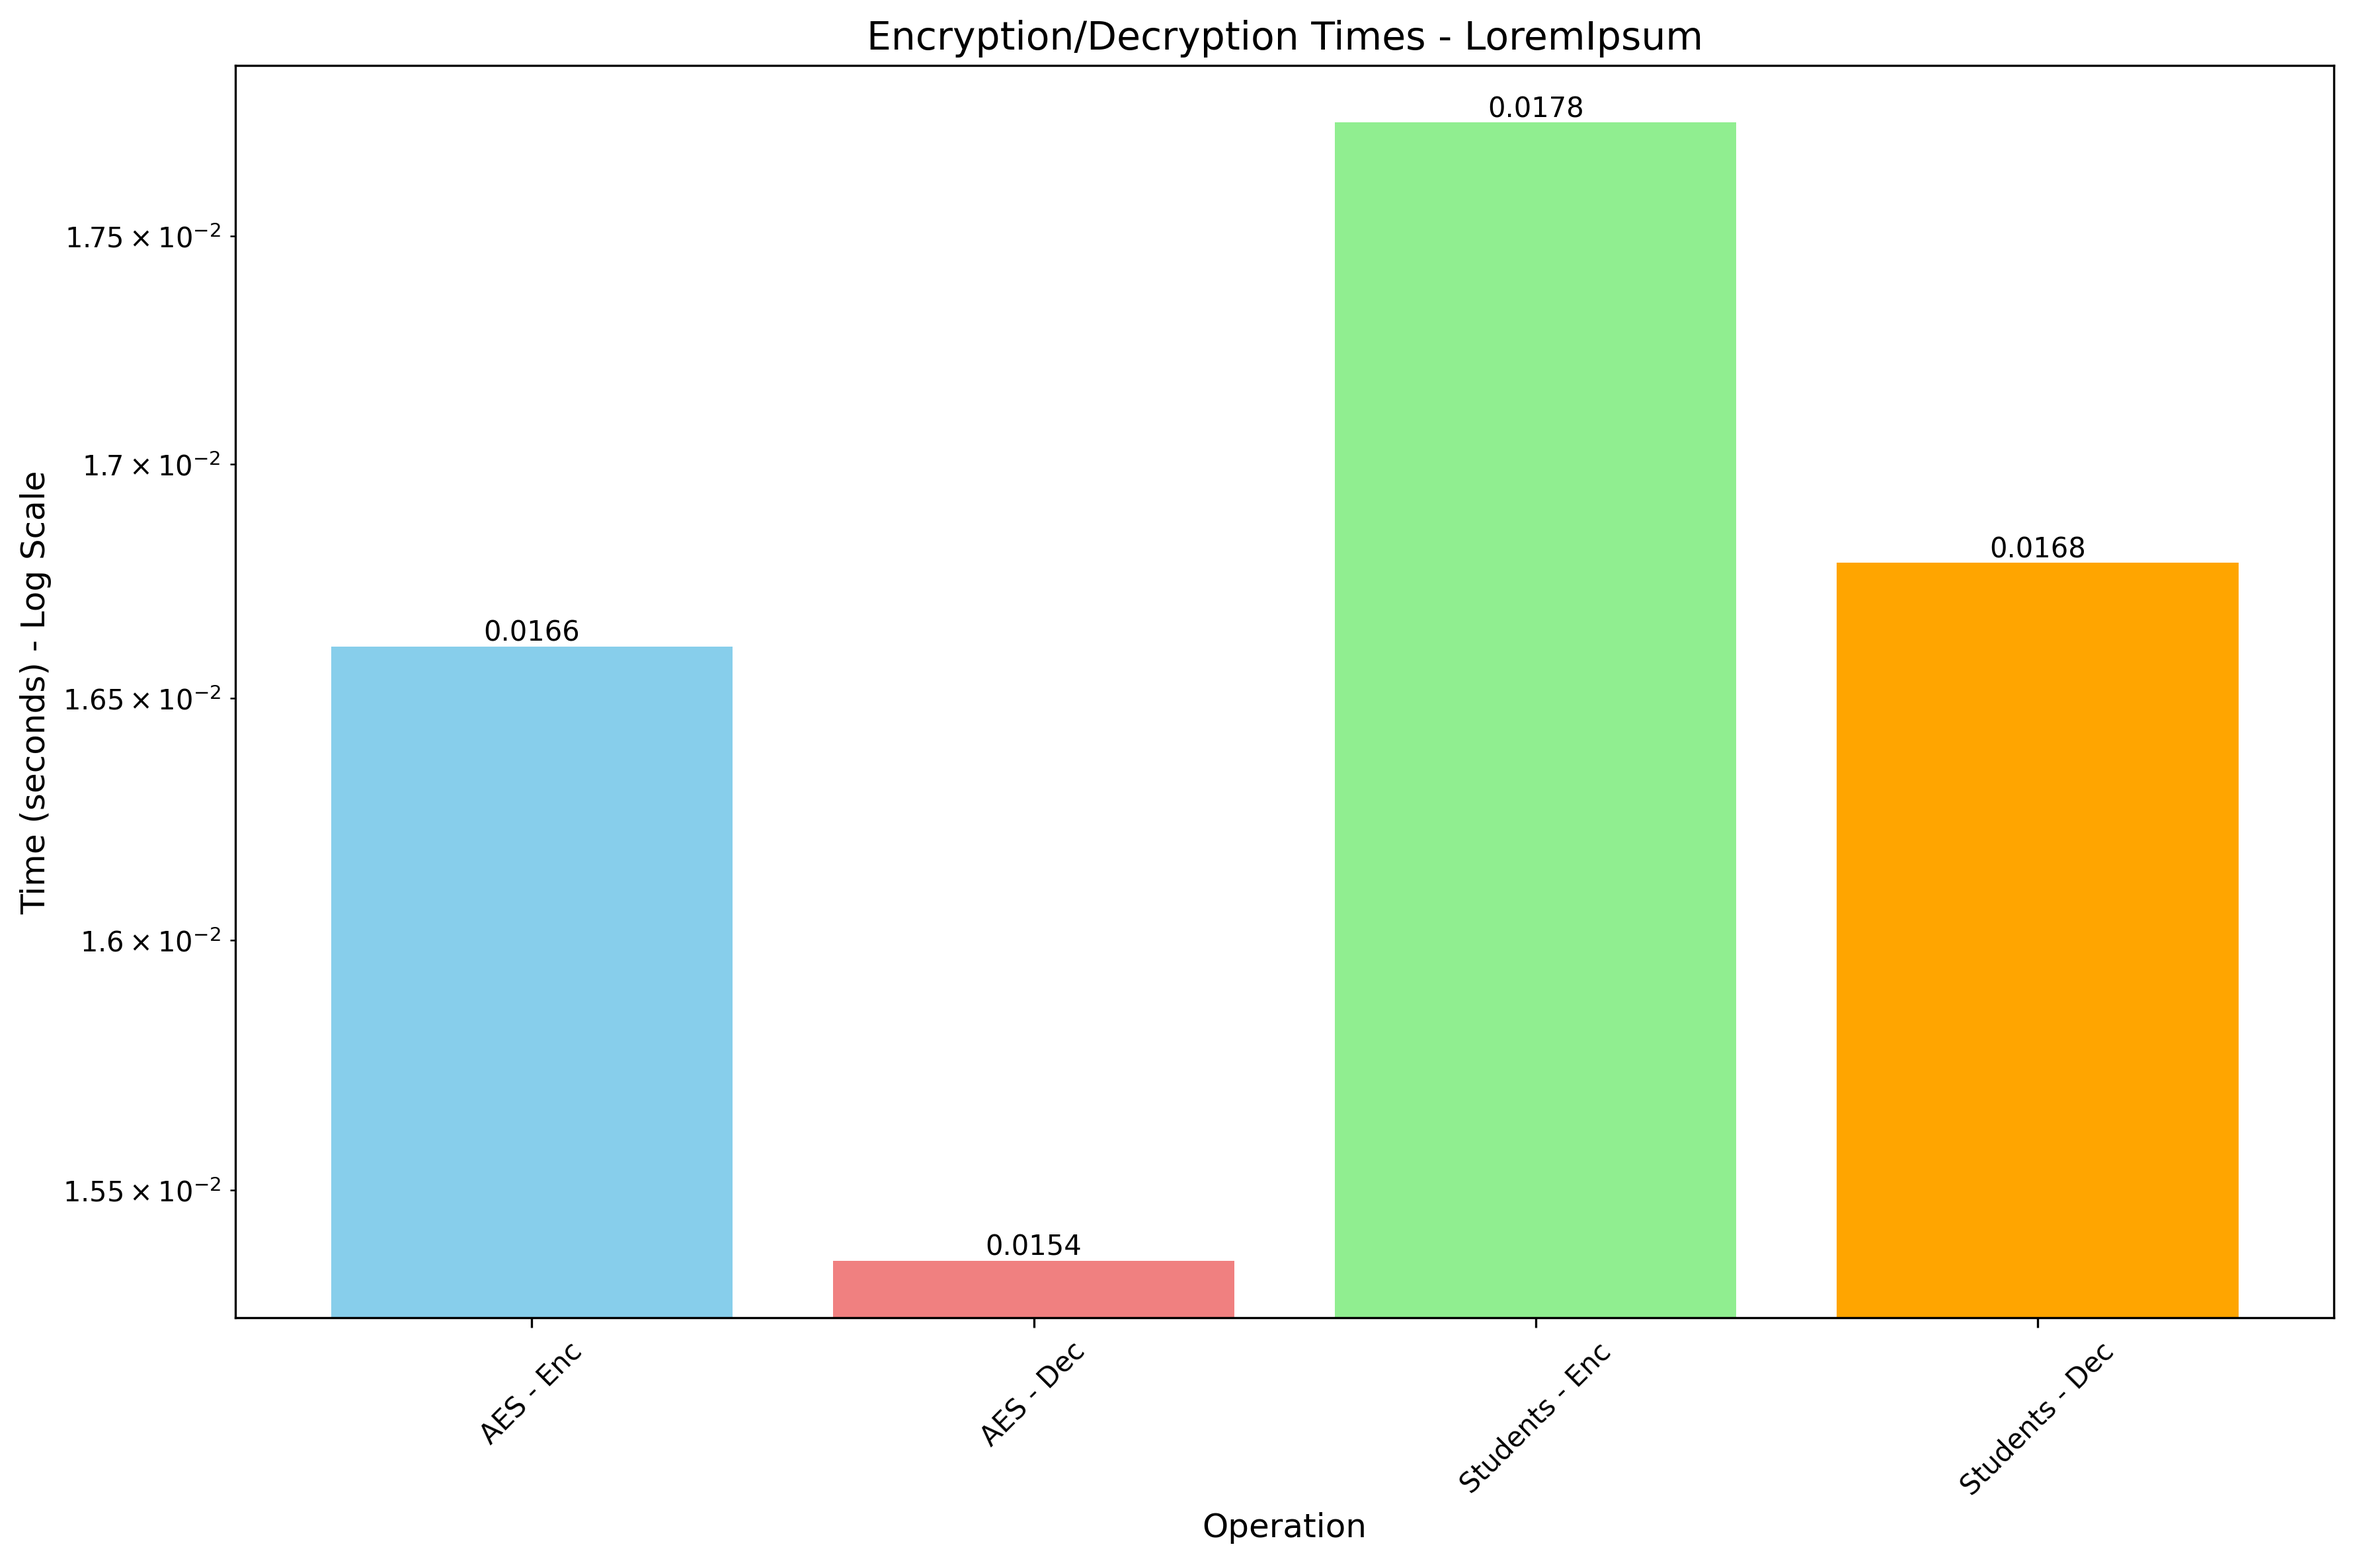
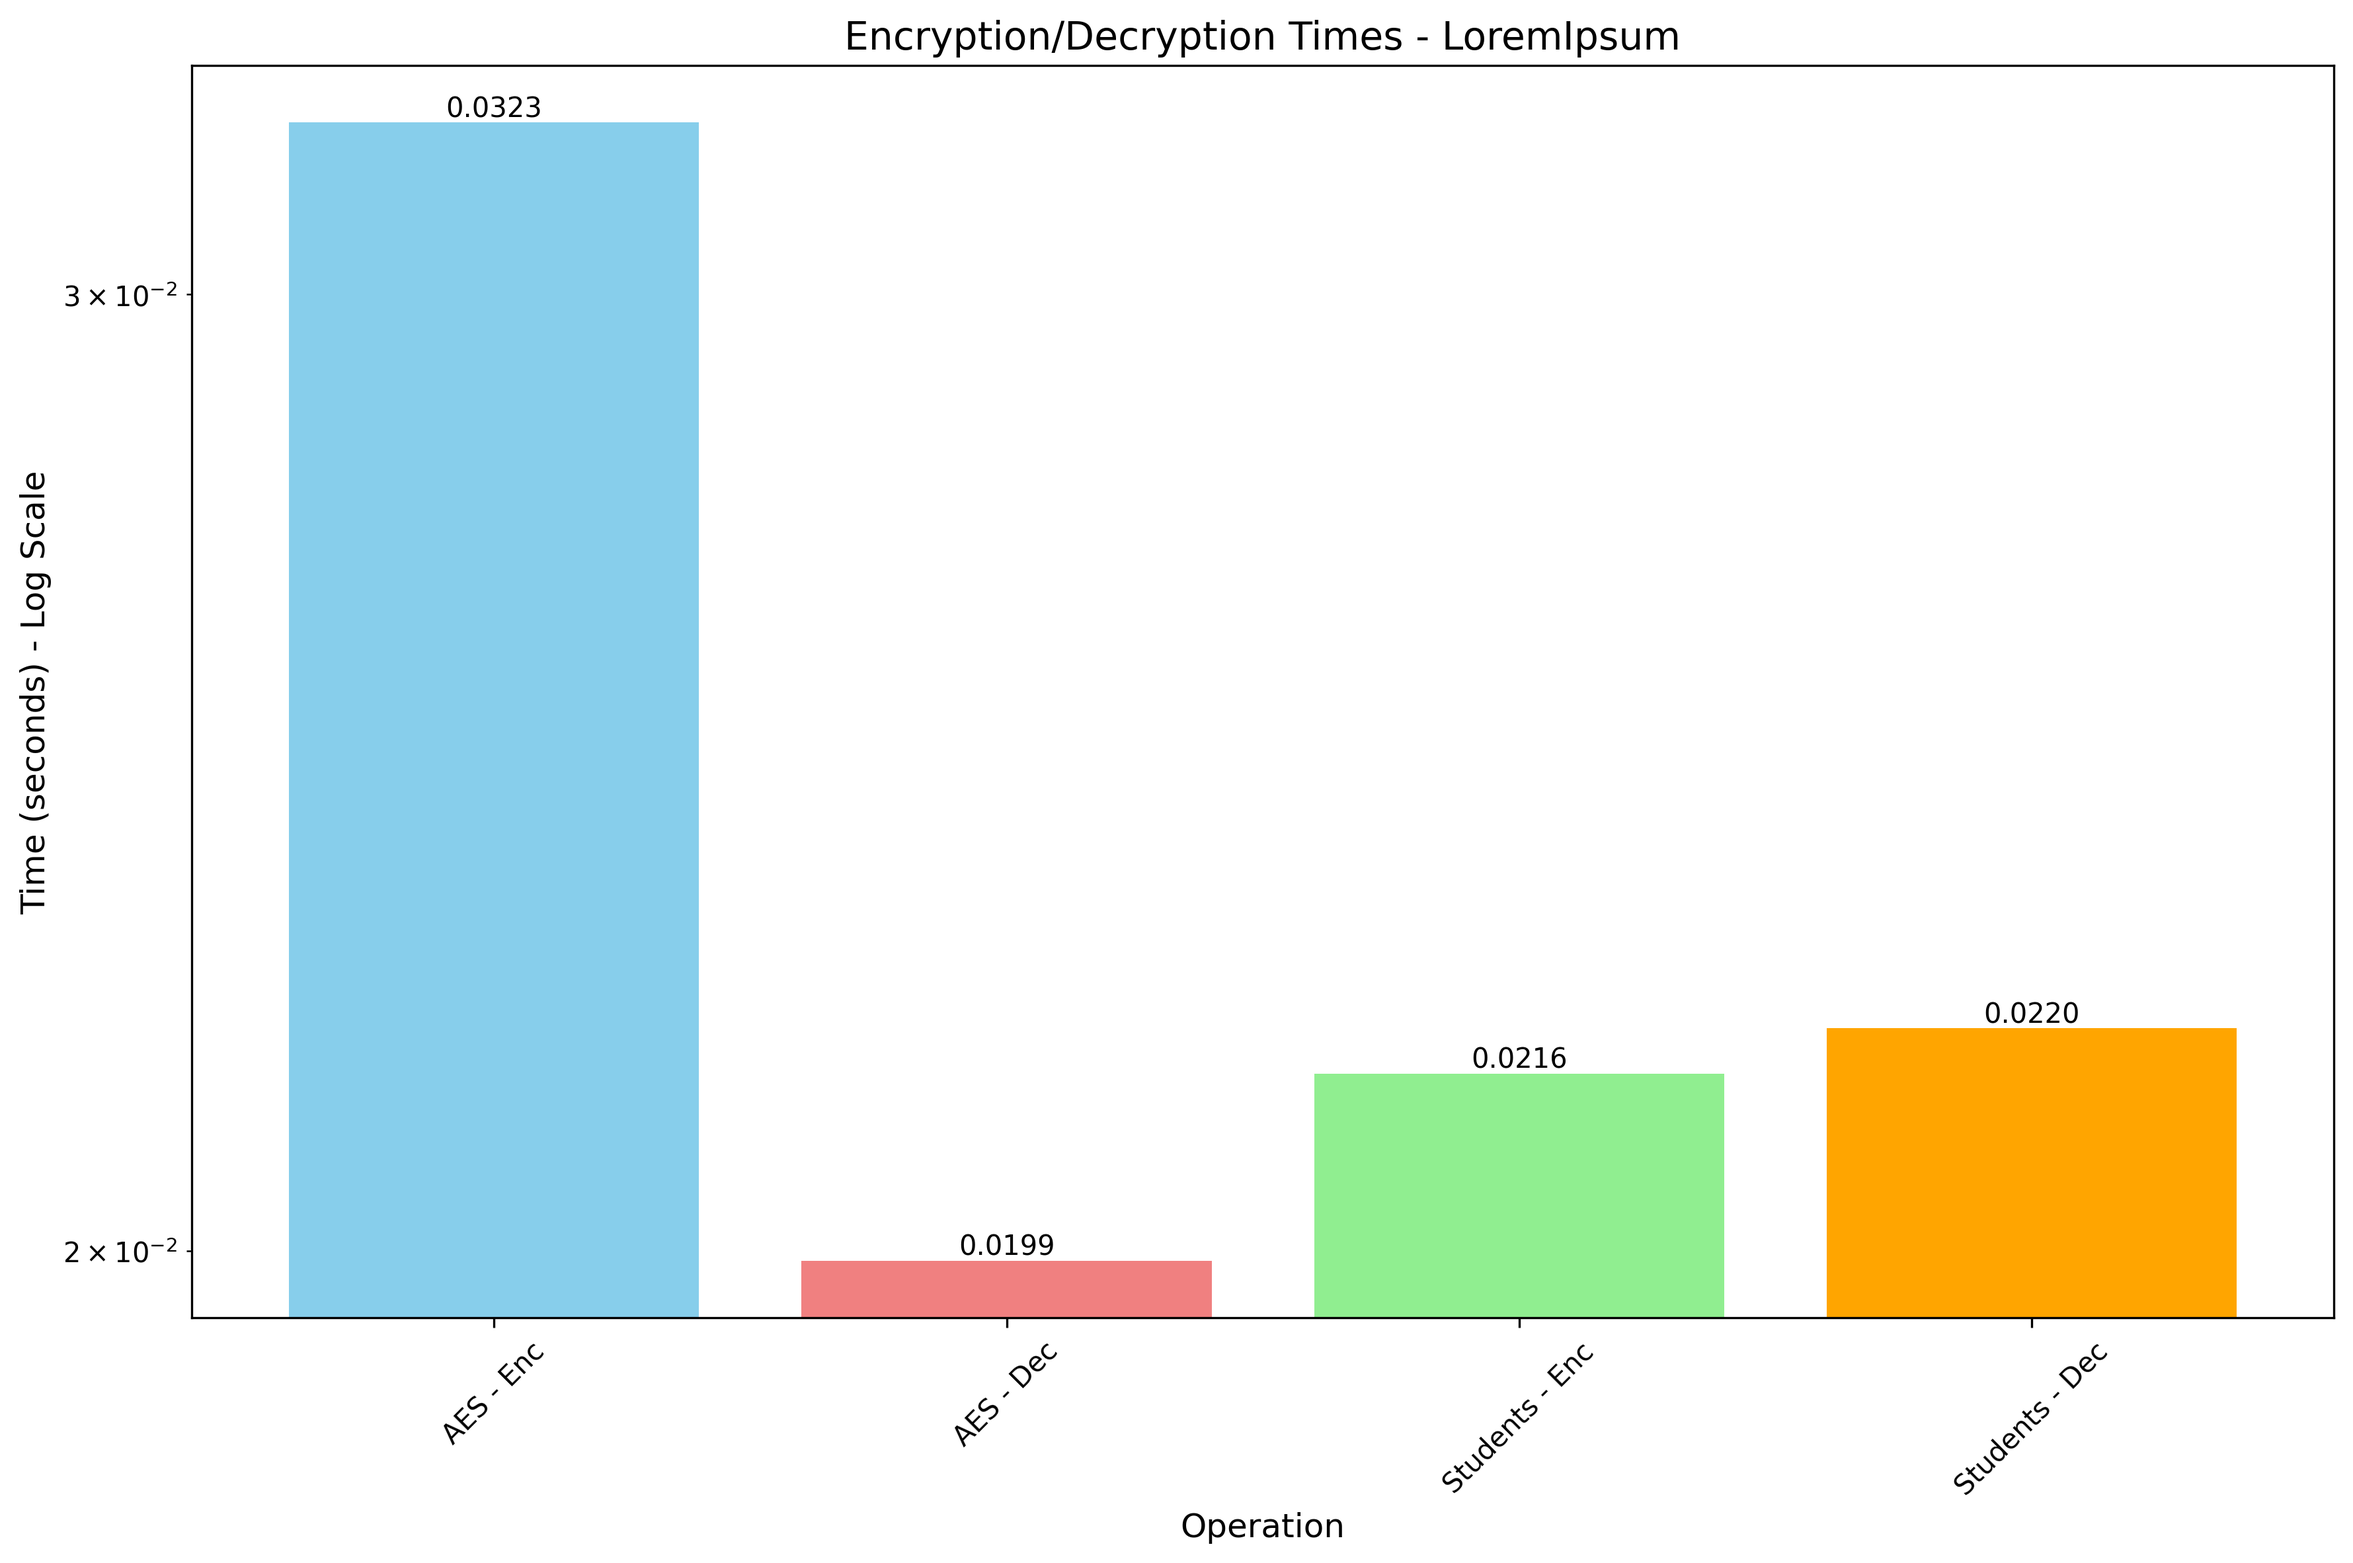
add flag de benchmark

diff --git a/T1/main.py b/T1/main.py
@@ -1,16 +1,85 @@
 #!/usr/bin/python3
 
 import argparse, aes, substitution, columnar, os
+import pandas as pd
+import matplotlib.pyplot as plt
 
 parse = argparse.ArgumentParser(description="Argumentos para operação dos algoritmos")
 parse.add_argument('-c', '--plain_text', type=str, help="Arquivo de Texto Claro")
 parse.add_argument('-d', '--cypher_text', type=str, help="Arquivo de Texto Cifrado")
 parse.add_argument('-a', '--aes', action='store_true', help="Usar AES para encriptação")
-parse.add_argument('-o', '--output_file', type=str, help="Arquivo de Saída", required=True)
+parse.add_argument('-o', '--output_file', type=str, help="Arquivo de Saída")
 parse.add_argument('-s', '--substitution', action='store_true', help="Cifrar por substituição")
 parse.add_argument('-t', '--transposition', action='store_true', help="Cifrar por transposição")
+parse.add_argument('-b', '--benchmarking', action='store_true', help='Modelo para benchmarking')
 
 args = parse.parse_args()
+
+
+if args.benchmarking:
+    def create_plot(df, title, filename):
+        plt.figure(figsize=(12, 8))
+        bars = plt.bar(df['Operation'], df['Time (seconds)'], color=['skyblue', 'lightcoral', 'lightgreen', 'orange'])
+        plt.title(f'Encryption/Decryption Times - {title}', fontsize=14)
+        plt.xlabel('Operation', fontsize=12)
+        plt.ylabel('Time (seconds) - Log Scale', fontsize=12)
+        plt.yscale('log')
+        plt.xticks(rotation=45)
+        
+        for bar, value in zip(bars, df['Time (seconds)']):
+            plt.text(bar.get_x() + bar.get_width()/2, bar.get_height(), 
+                    f'{value:.4f}', ha='center', va='bottom', fontsize=10)
+        
+        plt.grid(True, alpha=0.3, axis='y')
+        plt.tight_layout()
+        plt.savefig(filename, dpi=300, bbox_inches='tight')
+        plt.close()
+        print(f"Gráfico salvo como: {filename}.png")
+
+    files_list = ['./clear_text/1-LoremIpsum.txt', './clear_text/2-Frankenstein.txt', './clear_text/3-CompleteWorksShakespeare.txt']
+
+    key: str = input("Insira sua chave: ")
+    second_key: str = input("Insira sua segunda chave: ")
+    times = [[],[],[]]
+    i = 0
+    for file in files_list:
+        aes_encrypt_file = file+'.aes'
+        aes_decrypt_file = file+'.aes.dec'
+        students_encrypt_file = file+'.est'
+        students_decrypt_file = file+'.est.dec'
+
+        times[i].append(('AES - Enc', aes.encrypt(file, aes_encrypt_file, key)))
+        times[i].append(('AES - Dec', aes.decrypt(aes_encrypt_file, aes_decrypt_file, key)))
+
+        encrypt_time = columnar.encrypt(file, 'intermed.txt', key, second_key)
+        encrypt_time += substitution.encrypt('intermed.txt', students_encrypt_file, key)
+        times[i].append(('Students - Enc', encrypt_time))
+
+        decrypt_time = substitution.decrypt(students_encrypt_file, 'intermed.txt',  key)
+        decrypt_time += columnar.decrypt('intermed.txt', students_decrypt_file, key, second_key)
+        times[i].append(('Students - Dec', decrypt_time))
+        i += 1
+
+    df1 = pd.DataFrame(times[0], columns=['Operation', 'Time (seconds)'])
+    df1['File'] = files_list[0]
+
+    df2 = pd.DataFrame(times[1], columns=['Operation', 'Time (seconds)'])
+    df2['File'] = files_list[1]
+
+    df3 = pd.DataFrame(times[2], columns=['Operation', 'Time (seconds)'])
+    df3['File'] = files_list[2]
+
+    create_plot(df1, "LoremIpsum", "10kb")
+    create_plot(df2, "Frankenstein", "500kb")
+    create_plot(df3, "Complete Works Shakespeare", "5mb")
+
+    print(times)
+    os.remove('intermed.txt')
+    exit(0)
+
+
+if not args.output_file:
+    raise ValueError("Insira um arquivo de saída para o programa")
 
 if not args.plain_text and not args.cypher_text:
     raise ValueError("Insira um arquivo de texto claro (opção -c) ou um arquivo de texto criptografado (opção -d)")
@@ -29,9 +98,8 @@ if args.plain_text:
     # Substituição + transposição
     if args.substitution and args.transposition:
         second_key: str = input("Insira sua segunda chave: ")
-        third_key: str = input("Insira sua terceira chave: ")
-        time = substitution.encrypt(args.plain_text, "intermed.txt", key)
-        time += columnar.encrypt("intermed.txt", args.output_file, key, second_key, third_key)
+        time = columnar.encrypt(args.plain_text, "intermed.txt", key, second_key)
+        time += substitution.encrypt("intermed.txt", args.output_file, key)
         os.remove("intermed.txt")
 
     # Só substituição
@@ -41,8 +109,7 @@ if args.plain_text:
     # Só transposição
     elif args.transposition:
         second_key: str = input("Insira sua segunda chave: ")
-        third_key: str = input("Insira sua terceira chave: ")
-        time = columnar.encrypt(args.plain_text, args.output_file, key, second_key, third_key)
+        time = columnar.encrypt(args.plain_text, args.output_file, key, second_key)
 
 elif args.cypher_text:
     # Algoritmo AES
@@ -52,9 +119,8 @@ elif args.cypher_text:
     # Substituição + transposição
     if args.substitution and args.transposition:
         second_key: str = input("Insira sua segunda chave: ")
-        third_key: str = input("Insira sua terceira chave: ")
-        time = columnar.decrypt(args.cypher_text, "intermed.txt", key, second_key, third_key)
-        time += substitution.decrypt("intermed.txt", args.output_file, key)
+        time = substitution.decrypt(args.cypher_text, "intermed.txt", key)
+        time += columnar.decrypt("intermed.txt", args.output_file, key, second_key)
         os.remove("intermed.txt")
     
     # Só substituição
@@ -64,7 +130,6 @@ elif args.cypher_text:
     # Só transposição
     elif args.transposition:
         second_key: str = input("Insira sua segunda chave: ")
-        third_key: str = input("Insira sua terceira chave: ")
-        time = columnar.decrypt(args.cypher_text, args.output_file, key, second_key, third_key)
+        time = columnar.decrypt(args.cypher_text, args.output_file, key, second_key)
 
 print(f'Tempo decorrido: {time:.5f}s')

diff --git a/T1/columnar.py b/T1/columnar.py
@@ -3,50 +3,30 @@ import time
 ########################### ENCRYPT ###########################
 ########################## FUNCTIONS ##########################
 
+
 def create_matrix(text: str, key: str) -> list[list[str]]:
     key_len = len(key)
-    matrix = []
 
-    remainder = (len(text) % key_len)
-    if(remainder != 0):
-        for i in range(remainder, key_len):
-            text += ' '
+    remainder = len(text) % key_len
+    if remainder != 0:
+       text += " " * (key_len - remainder)
 
-    while text:
-        line = []
-        for i in range(key_len):
-            line.append(text[0])
-            text = text[1:]
-        matrix.append(line)
-
-    return matrix
+    return [list(text[i:i + key_len]) for i in range(0, len(text), key_len)]
 
 def rebuild_ciphered_text(matrix: list[list[str]], key: str) -> str:
-    sl = sorted(enumerate(key), key=lambda x: x[1])
-    text = ''.join(
-        str(matrix[i][sl[j][0]])
-        for j in range(len(key))
-        for i in range(len(matrix))
-    )
+    order = [i for i, _ in sorted(enumerate(key), key=lambda x: x[1])]
 
-    return text
+    return "".join(matrix[row][col] for col in order for row in range(len(matrix)))
 
-def encrypt(input: str, output: str, first_key: str, second_key: str, third_key: str) -> float:
+def encrypt(input: str, output: str, first_key: str, second_key: str) -> float:
     time_exec = time.perf_counter()
-    with open(output, 'w') as output_file:
-        with open(input, 'r') as input_file:
-            text = input_file.read()
+    with open(output, 'w') as output_file, open(input, 'r') as input_file:
+        text = input_file.read()
 
-            transposition_matrix = create_matrix(text, first_key)
-            transpose_text = rebuild_ciphered_text(transposition_matrix, first_key)
+        transpose_text = rebuild_ciphered_text(create_matrix(text, first_key), first_key)
+        ciphered_text = rebuild_ciphered_text(create_matrix(transpose_text, second_key), second_key)
 
-            second_transpose = create_matrix(transpose_text, second_key)
-            second_transpose_text = rebuild_ciphered_text(second_transpose, second_key)
-
-            third_transpose = create_matrix(second_transpose_text, third_key)
-            ciphered_text = rebuild_ciphered_text(third_transpose, third_key)
-
-            output_file.write(ciphered_text)
+        output_file.write(ciphered_text)
 
     return time.perf_counter() - time_exec
 
@@ -54,56 +34,34 @@ def encrypt(input: str, output: str, first_key: str, second_key: str, third_key:
 ########################## FUNCTIONS ##########################
 
 def reorder_matrix(matrix: list[list[str]], sl: list[tuple[int, str]], key_len: int) -> list[list[str]]:
-    ordered_matrix = []
-    for i in range(key_len):
-        index = next(idx for idx, (orig_idx, _) in enumerate(sl) if orig_idx == i)
-        ordered_matrix.append(matrix[index])
-
-    return ordered_matrix
+    index_map = {orig_idx: idx for idx, (orig_idx, _) in enumerate(sl)}
+    return [matrix[index_map[i]] for i in range(key_len)]
 
 def create_transpose_matrix(text: str, key: str) -> list[list[str]]:
     key_len = len(key)
-    matrix = []
-    remainder = (len(text) % key_len)
-    if(remainder != 0):
-        for i in range(remainder, key_len):
-            text += ' '
 
-    columns = (len(text) // key_len)
-    while text:
-        line = []
-        for i in range(columns):
-            line.append(text[0])
-            text = text[1:]
-        matrix.append(line)
+    remainder = len(text) % key_len
+    if remainder != 0:
+        text += " " * (key_len - remainder)
+
+    columns = len(text) // key_len
+    matrix = [list(text[i:i + columns]) for i in range(0, len(text), columns)]
 
     sl = sorted(enumerate(key), key=lambda x: x[1])
-    reordered_matrix = reorder_matrix(matrix, sl, len(key))
+    reordered_matrix = reorder_matrix(matrix, sl, key_len)
 
-    transposed_matrix = [list(row) for row in zip(*reordered_matrix)]
-    return transposed_matrix
+    return [list(row) for row in zip(*reordered_matrix)]
 
 def rebuild_deciphered_text(matrix: list[list[str]], key: str ) -> str:
-    text = ''.join(
-        [str(matrix[i][j])
-         for i in range(len(matrix))
-         for j in range(len(matrix[i]))]
-    ).rstrip()
-    return text
+    return "".join(ch for row in matrix for ch in row).rstrip()
 
-def decrypt(input: str, output: str, third_key: str, second_key: str, first_key: str) -> float:
+def decrypt(input: str, output: str, second_key: str, first_key: str) -> float:
     time_exec = time.perf_counter()
-    with open(output, 'w') as output_file:
-        with open(input, 'r') as input_file:
+    with open(output, 'w') as output_file, open(input, 'r') as input_file:
             text = input_file.read()
-            transposition_matrix = create_transpose_matrix(text, first_key)
-            transpose_text = rebuild_deciphered_text(transposition_matrix, first_key)
-
-            second_transpose = create_transpose_matrix(transpose_text, second_key)
-            second_transpose_text = rebuild_deciphered_text(second_transpose, second_key)
-
-            third_transpose = create_transpose_matrix(second_transpose_text, third_key)
-            deciphered_text = rebuild_deciphered_text(third_transpose, third_key)
+            
+            transpose_text = rebuild_deciphered_text(create_transpose_matrix(text, first_key), first_key)
+            deciphered_text = rebuild_deciphered_text(create_transpose_matrix(transpose_text, second_key), second_key)
 
             output_file.write(deciphered_text)
     return time.perf_counter() - time_exec
